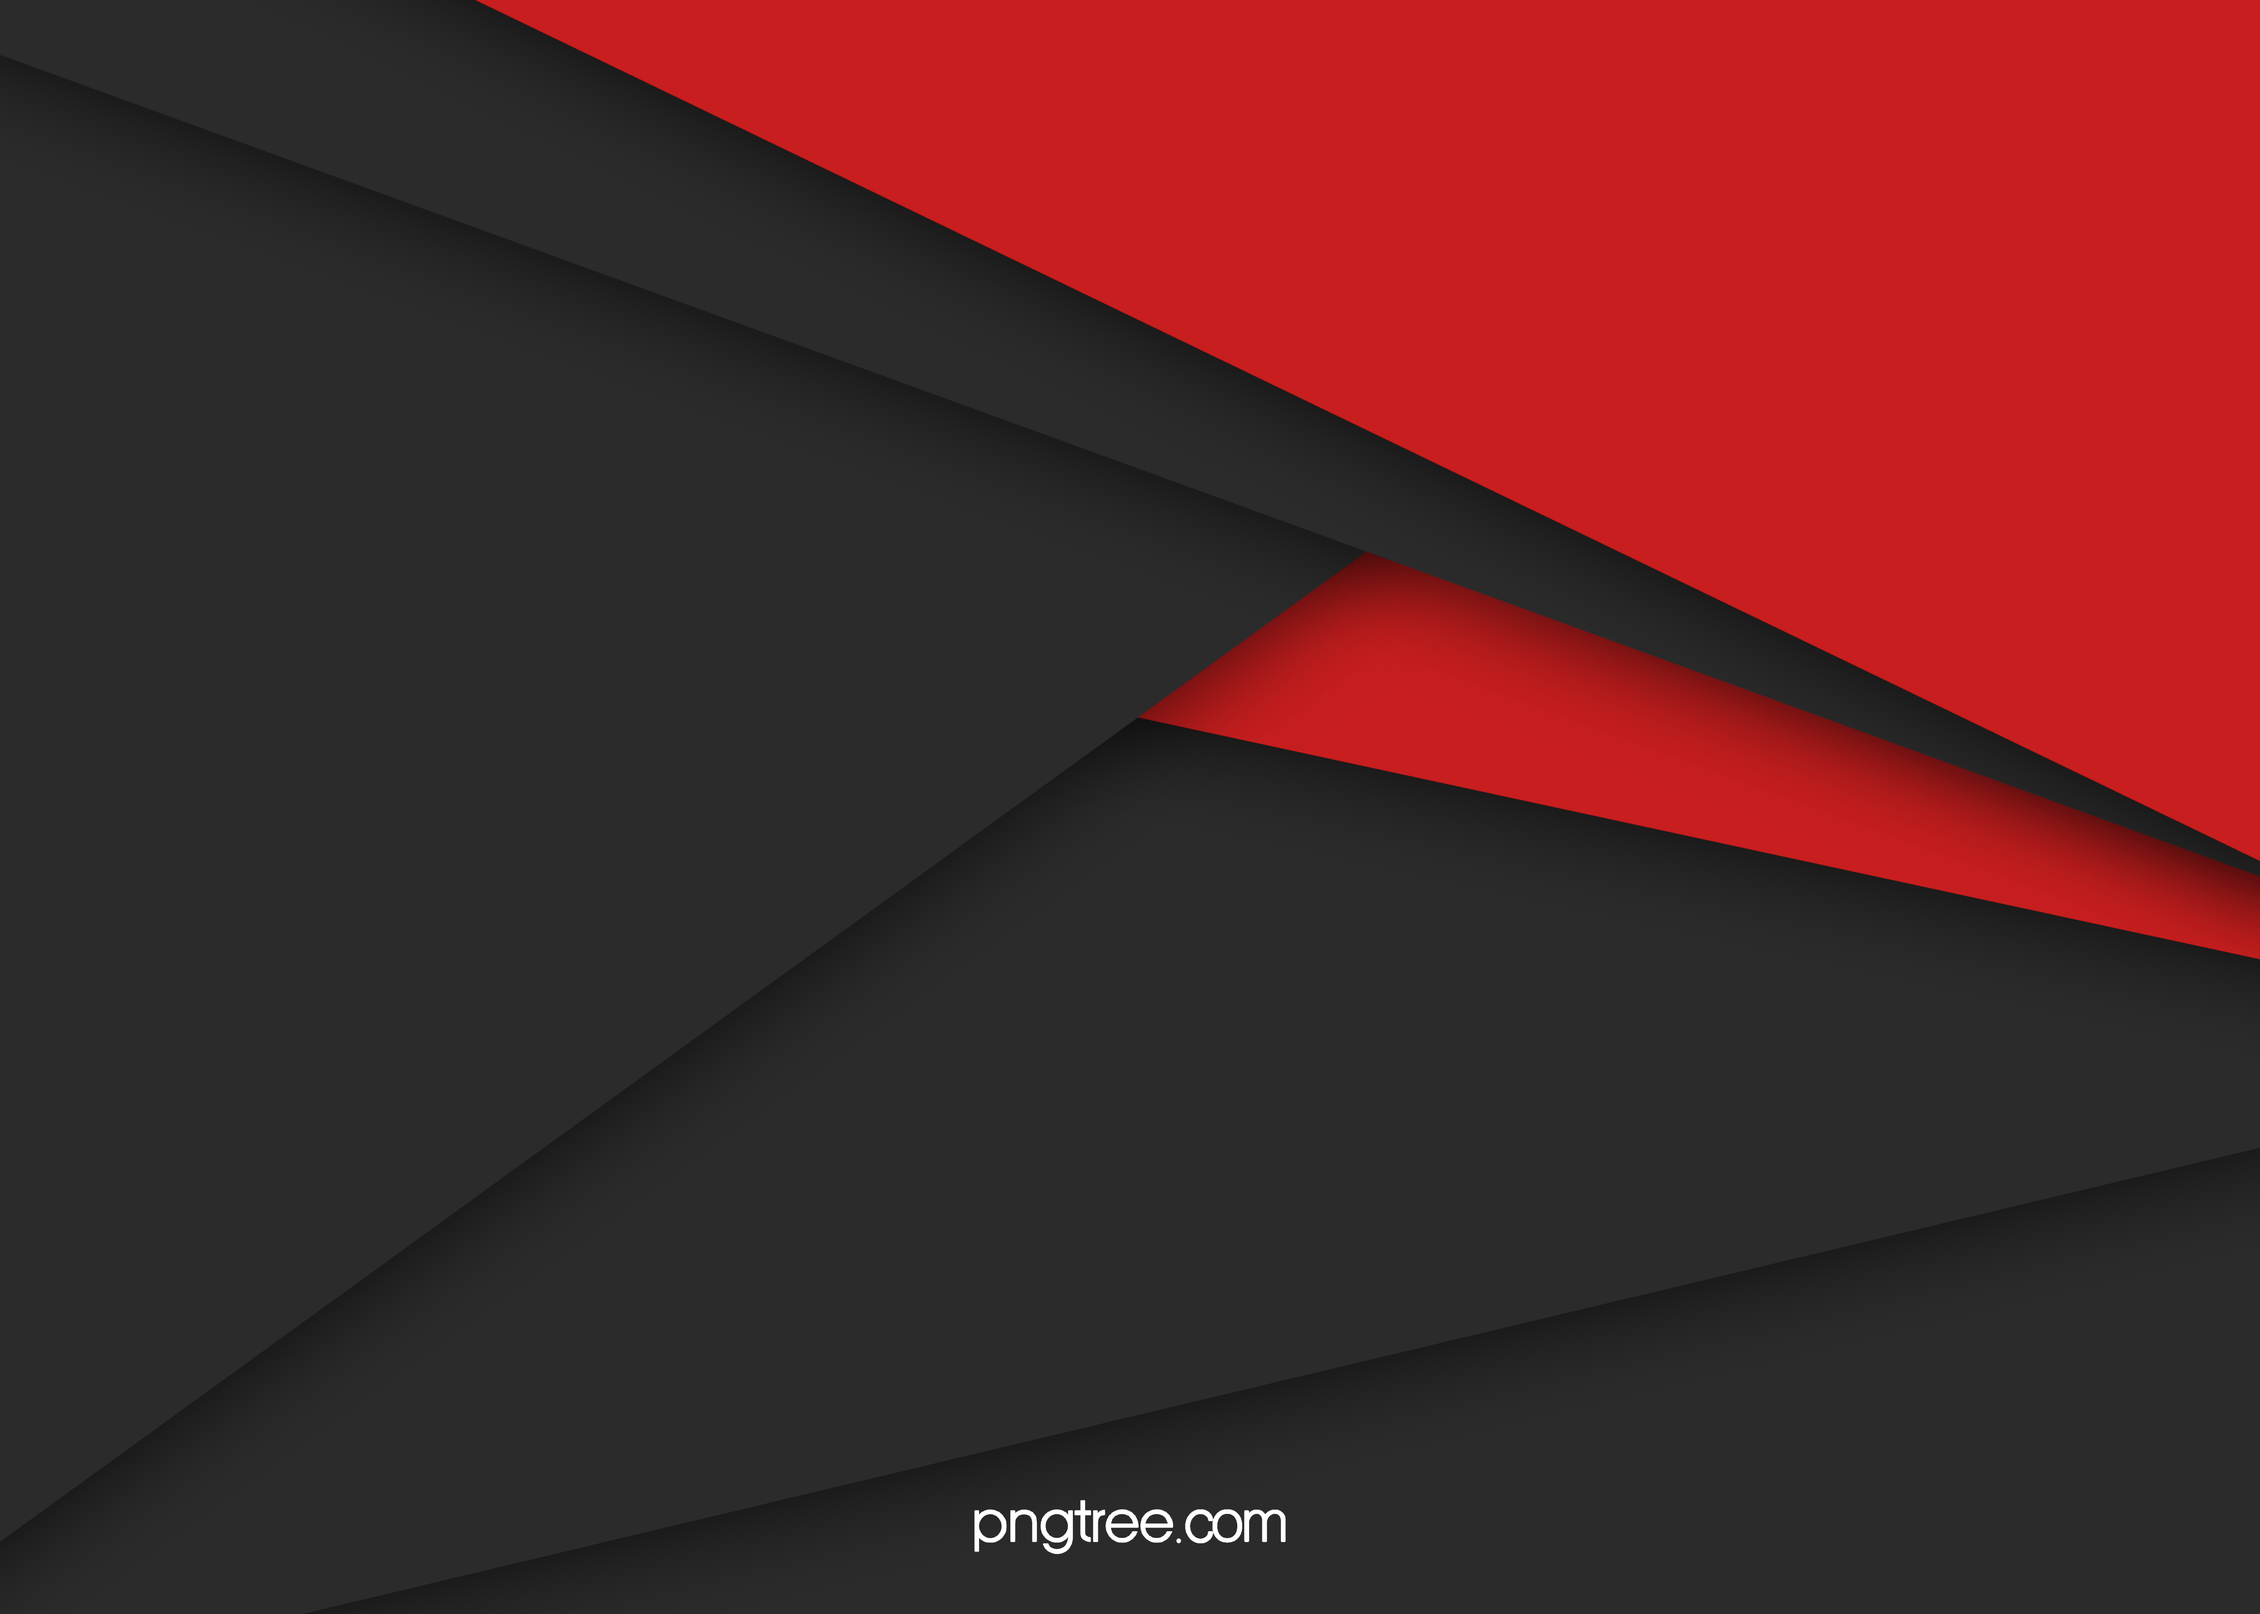
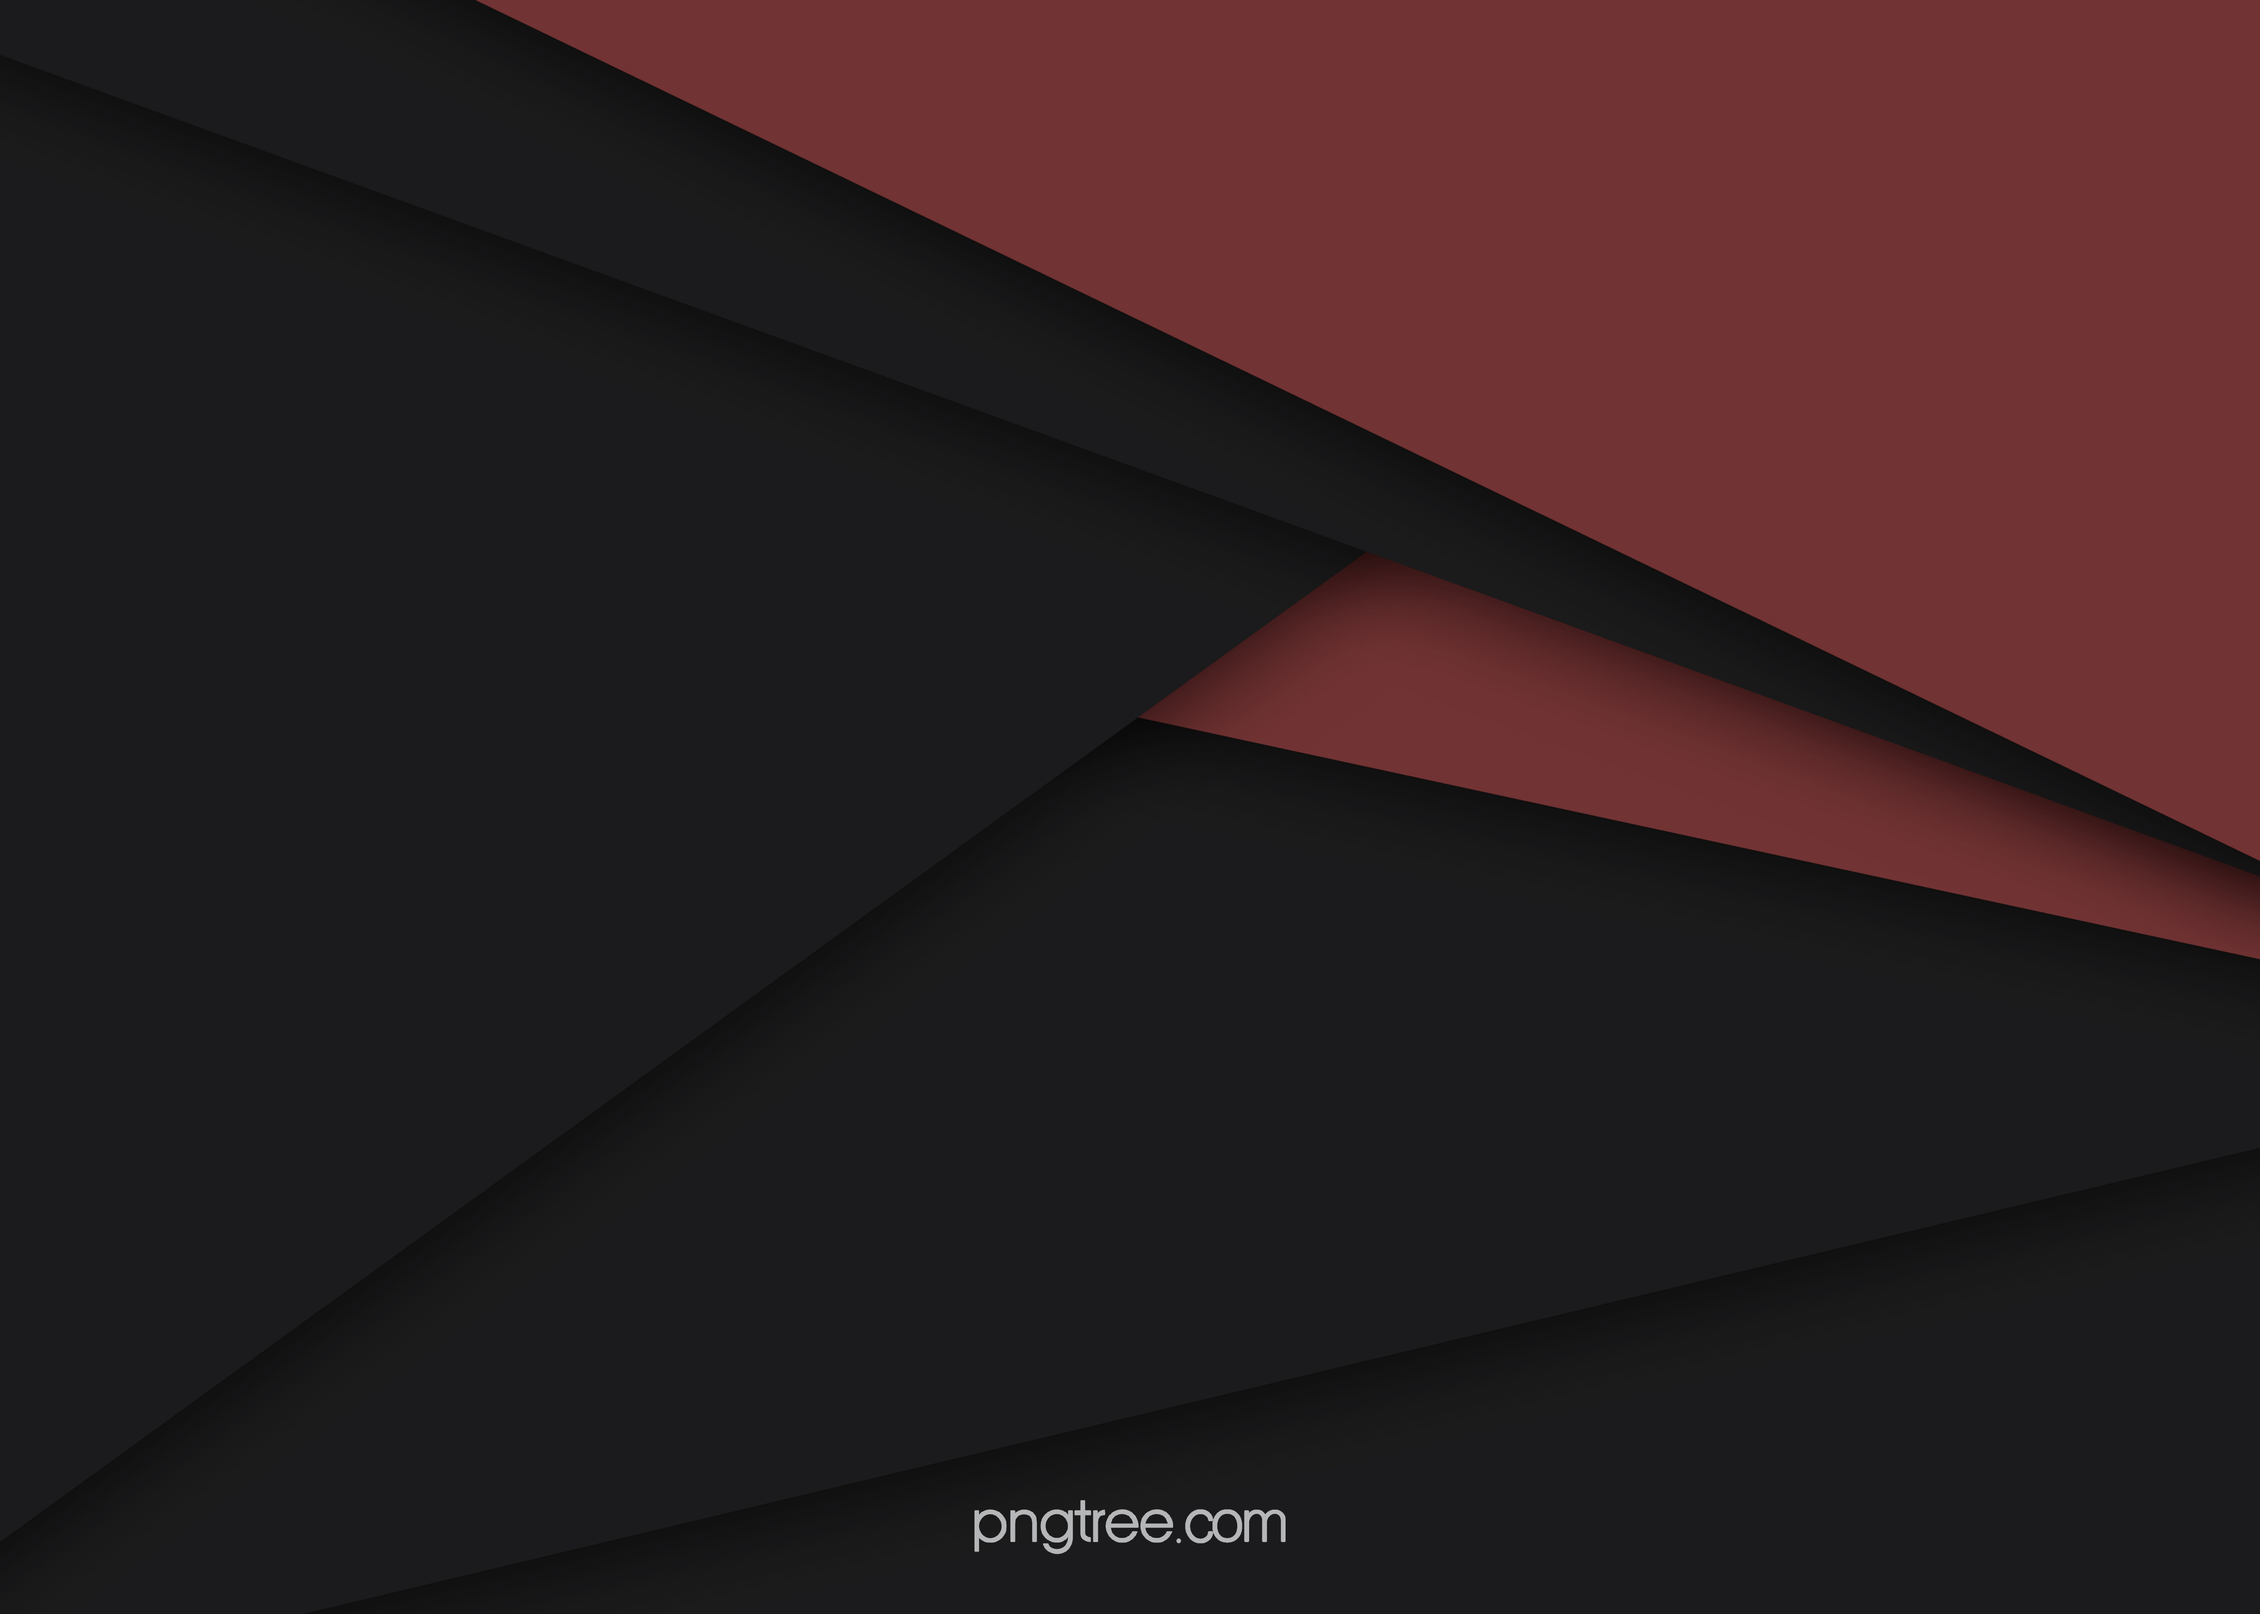
add sheet configs

Changed region(s): [[0.2187, 0.0, 1.0, 0.6209], [0.4374, 0.9314, 0.5624, 0.9625]]

diff --git a/static/css/main.css b/static/css/main.css
@@ -28,7 +28,7 @@ html, body{
 }
   
 .head{
-    background-image: url(/static/images/safeshipbackground.png);
+    background-image: url(/static/images/dark-red.jpg);
     padding: 20px;
     margin-top: 45px;
     margin-left: -10px;
